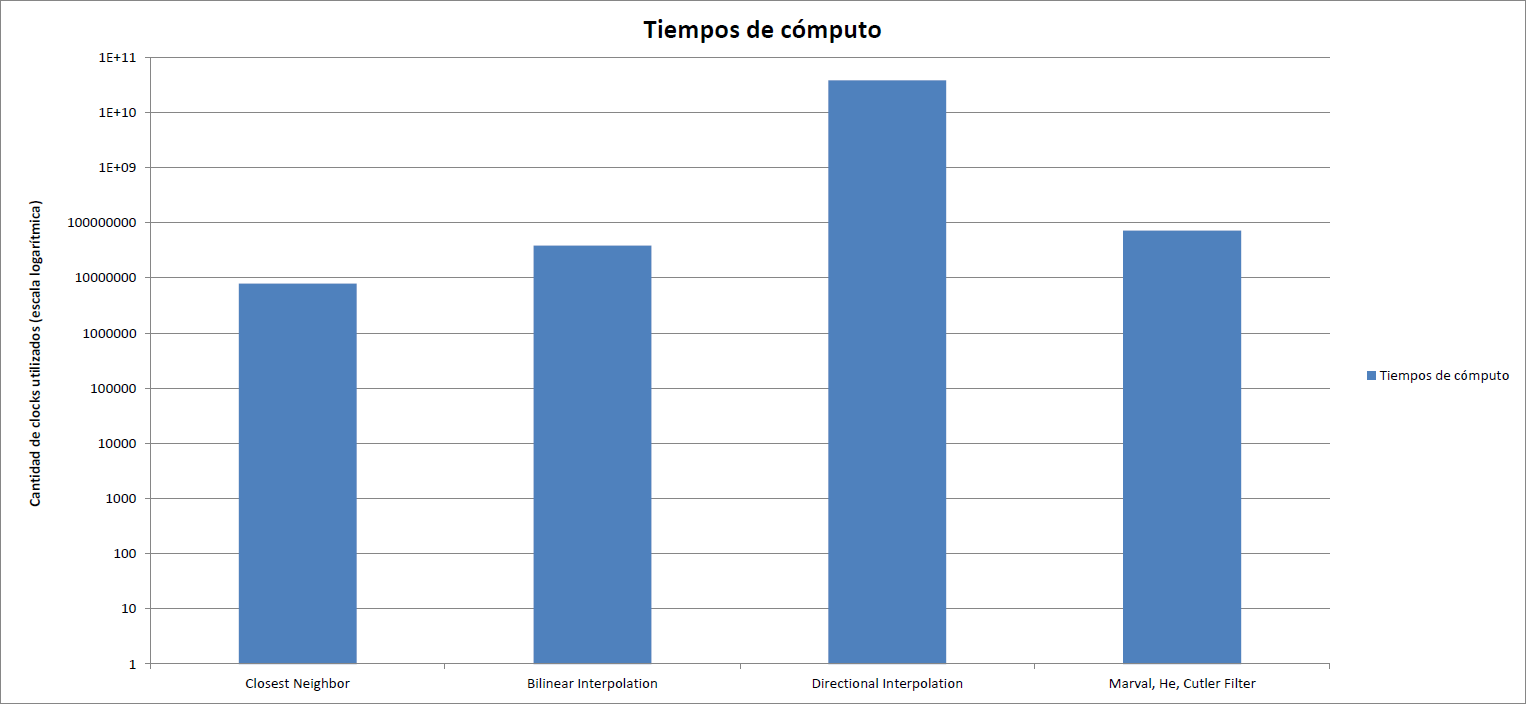
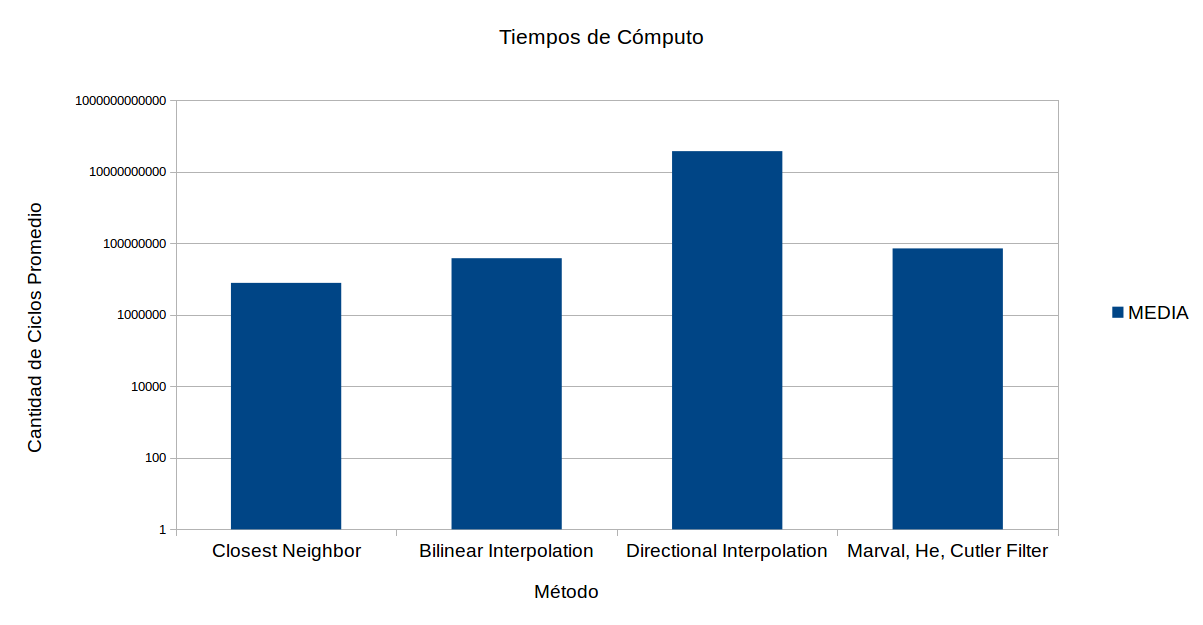
analsis de tiempo

diff --git a/tp3-mn/informe/informe.tex b/tp3-mn/informe/informe.tex
@@ -243,12 +243,74 @@ A su vez como dijimos antes, esta corrección va a estar impuesta con cierta imp
 
 
 \subsubsection{Problemas en la Implementación}
-
+En este caso, no nos encontramos con problemas a la hora de realizar la implementación. Las decisiones de diseño tomadas, principalmente para que cada filtro se ejecute de la misma manera, fueron fundamentales a la hora de realizar el código. Permitió crear un programa legible, reducido y fácil de encontrar los problemas.
 	
 \subsection{Experimentación}
 
+A la hora de decidir qué algoritmo se debe utilizar, hay varios puntos que se deben tener en cuenta. ¿Queremos que sea rápido? ¿Queremos una imagen que sea grata a la vista o preferimos que sea lo más semejante posible a la imagen que queremos capturar? ¿Es necesario ceder algo de tiempo a fin de obtener una mejor imagen? Y si es así, ¿Estamos dispuestos a hacerlo? 
+
+A continuación se plantearán estos problemas mostrando las diferencias cuantitativas y cualitativas de todos los algoritmos explicados previamente.
 
 \subsubsection{Análisis Cuantitavo}
+
+\begin{itemize}
+\item \underline{PSNR:}
+\item \underline{SSIM:}
+
+\item \underline{Análisis de tiempos:}
+
+Ya vimos qué algoritmos brindan una imagen con mayor similitud a la original. Ahora nos tenemos que plantear qué tiempos de cómputo corresponden a cada uno de los métodos realizados. 
+
+La experimentación realizada para calcular los tiempos de cada método se realizó teniendo en cuenta solo el tiempo de cómputo del color verde. Esto se debe a que tanto la interpolación direccional como el algoritmo de Malvar, He y Cutler obtienen la información faltante de los colores rojo y azul a través del algoritmo de interpolación bilineal. De esta forma, pierde sentido analizar su tiempo de cómputo ya que es simil para todos.
+
+Lo primero que notamos al realizar esta experimentación fue que se obtuvieron mediciones muy similares para el mismo algoritmo aplicado a las distintas imágenes presentadas por la cátedra. Esto se puede ver reflejado en los siguientes gráficos:
+
+	\begin{center}
+		\includegraphics[scale=0.4]{./img/comparacionMetodoImagen.png}
+		\vspace{2pt}
+		\par
+		\footnotesize\textit{Comparación entre imágenes y algoritmos para un promedio de 20 repeticiones del método.}
+	\end{center}
+
+Como podemos notar, para un mismo algoritmo, \textbf{TODAS} las imágenes brindadas por la cátedra obtienen un promedio de 20 iteraciones del algoritmo muy similar. Esto implica que el tiempo de cómputo \textbf{NO} depende de la imagen, sino que solamente del algoritmo utilizado. 
+
+Teniendo en cuenta las implementaciones de los filtros, esto tiene sentido ya que nunca se debe realizar más instrucciones por alguna característica de la imagen. El único caso en el que puede verse alguna particularidad como esta sería con el algoritmo de interpolación direccional. Recordemos que a partir del valor del gradiente obtenido en dirección horizontal y vertical al pixel, se toma una fila o una columna respectivamente. A partir de esta elección se toma todo el vector fila o columna y se realiza splines sobre eso. 
+
+Supongamos imágenes mucho más anchas que altas; por ende, la matriz que representa la imagen va a ser rectangular. Además, diferenciemos dos imágenes tal que el algoritmo de interpolación siempre posea el menor gradiente en la dirección columna mientras que la otra imagen la posea siempre en las filas. En este caso, la diferencia de tiempo será la causada por el cálculo de splines. Teniendo en cuenta que la complejidad de este algoritmo es O($n + log(n)$)[3], la potencial diferencia entre la cantidad de columnas y filas se verá influenciada en un orden lineal (siendo el $n$ lo que predomina en esta complejidad).
+
+Sin embargo, no existen imágenes infinitas, y solamente el cálculo de splines es el que puede modificar de alguna manera el tiempo de cómputo. Pero para imágenes ``normales'', donde no se produce ningún caso extraño y el cálculo del gradiente alterna la elección del vector sobre el que aplicar splines, los tiempos de cómputo, como se vieron en la experimentación realizada.
+
+
+\vspace{2\baselineskip}
+
+Del gráfico comparativo se puede extraer más información. Estamos analizando el promedio de iteraciones para cada imagen dependiendo del algoritmo. Como vimos, los valores son muy similares para el mismo algoritmo. De esta manera, si calculamos para obtener la cantidad de ciclos promedio del algoritmo, nos encontraremos con un gráfico muy similar al recién mostrado:
+
+	\begin{center}
+		\includegraphics[scale=0.4]{./img/tiemposDeComputo.png}
+		\vspace{2pt}
+		\par
+		\footnotesize\textit{Comparación de cantidad de ciclos promedio para cada método.}
+	\end{center}
+
+Este gráfico se corresponde con el obtenido a partir de los promedios de cada imagen. Ya que interpretamos que una corrida del algoritmo no varía (excepto en casos especiales) de una imagen a otra, a las 20 corridas por algoritmo se le corresponden 12 imágenes dandonos una cantidad suficiente de corridas para calcular un promedio por algoritmo que podemos considerar una cantidad de ciclos media.
+
+Como se puede ver, la cantidad de ciclos utilizada por \textit{Closest Neighbor} es la menor a todas. De esta manera vemos que, lo que perdimos en cuenta a la similitud con la imagen original lo estamos ganando en velocidad. Es por esto que puede plantearse una situación donde este sea el método que mejor se acomoda a las circunstancias. 
+
+Por otro lado, vemos una relación muy parecida entre el método de \textit{interpolación bilineal} con el \textit{algoritmo de Malvar, He y Cutler}. Esto es razonable debido a que este último método se basa en aplicar una interpolación bilineal a la cual le realiza operaciones para modificar su calidad. Así vemos que con un leve aumento del tiempo de cómputo, podemos obtener una imagen de mayor calidad. A pesar de esto, el método de interpolación bilineal resulta más costoso que el de Closest Neighbor pero teniendo en cuenta la calidad de la imagen, puede preferirse ceder algo de tiempo para obtener una mayor nitidez o menor cantidad de artifacts. Teniendo en cuenta que la diferencia de tiempos de cómputo entre ambos no es tan notoria, y que también la implementación del algoritmo de Closest Neighbor se basa en el azar de obtener un buen vecino, la interpolación bilineal se vuelve un buen candidato a utilizar.
+
+Por último, tenemos la \textit{interpolación direccional}. Esta última obtiene muy buenos resultados de calidad, sin embargo el tiempo de cómputo es muy alto y extensamente alejado de los demás métodos presentados.
+Sin embargo, puede ser una buena elección si tenemos el tiempo para procesarlo. El usuario podría obtener una imagen de mayor calidad y más gustosa a la vista. 
+
+Este último planteo nos deja a la vista más preguntas. Tenemos un análisis que nos dice que métodos nos brindan imágenes más cercanas a la original. Podemos a su vez decidir si queremos gastar el tiempo para obtener una imagen más ``real'' o no. Sin embargo, ¿es eso lo que queremos? ¿Qué es lo que se busca: una imagen más real o una imagen que se vea bien? Ya vimos que para obtener una o la otra es necesaria gastar más o menos tiempo en cómputo, pero ahora nos planteamos algo que se aleja de lo cuantificable. 
+
+¿Me gusta la imagen o no? 
+
+
+
+
+\end{itemize}
+
+
 
 \subsubsection{Análisis Cualitativo}
 
@@ -448,8 +510,9 @@ Lo interesante a destacar es, que hilando fino, podemos ver que ninguna de las i
 %		\par Método de la potencia: Richard BURDEN, Numerical Analysis 9th Ed. Chapter 9 Section 3, p. 576
 %		\par \textit{Papers} del TP.
 %	\item \textbf{Contador de clocks}: \url{http://www.mcs.anl.gov/\~kazutomo/rdtsc.html}
-http://www.cambridgeincolour.com/tutorials/camera-sensors.htm
-http://ins.sjtu.edu.cn/people/mtang/textbook.pdf
+\item $http://www.cambridgeincolour.com/tutorials/camera-sensors.htm [1]$
+\item $http://ins.sjtu.edu.cn/people/mtang/textbook.pdf [2]$
+\item $http://www.csie.ntu.edu.tw/~lyuu/theses/thesis_r91723055.pdf [3]$
 \end{itemize}
 
 
